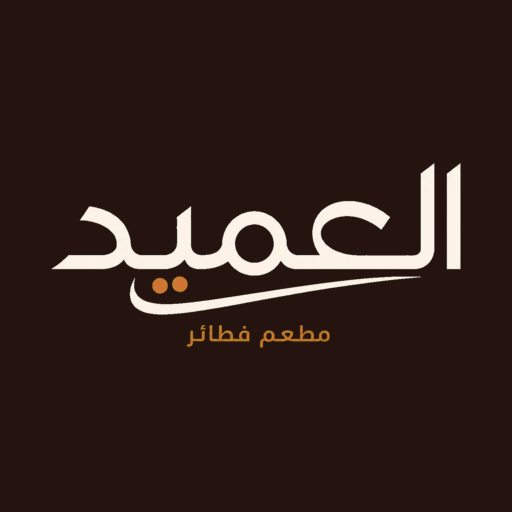
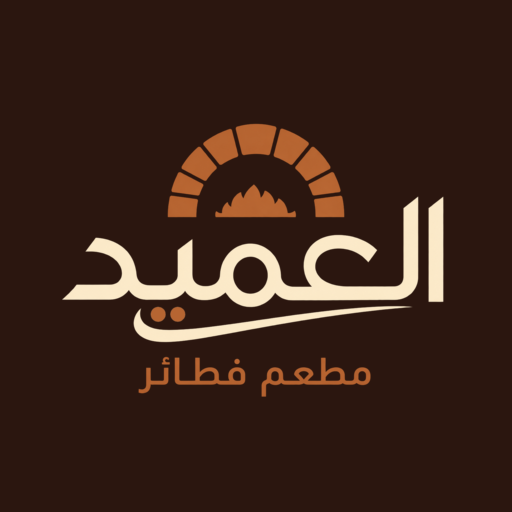
Add files via upload

Changed region(s): [[0.0938, 0.2188, 0.9062, 0.7812]]

diff --git a/index.html b/index.html
@@ -6,18 +6,18 @@
   <meta name="theme-color" content="#efe3d3">
   <meta name="description" content="منيو مطعم فطائر العميد والطلب عبر واتساب">
   <title>مطعم فطائر العميد</title>
-  <link rel="preload" as="image" href="brand-logo.png" fetchpriority="high">
+  <link rel="preload" as="image" href="brand-logo.png?v=20260819-final-logo" fetchpriority="high">
   <link rel="preload" as="image" href="hero-lamma.jpg" fetchpriority="high">
-  <link rel="stylesheet" href="style.css?v=20260816-horizontal-sizes-v1">
-  <link rel="apple-touch-icon" sizes="180x180" href="apple-touch-icon.png">
-  <link rel="icon" type="image/png" sizes="64x64" href="favicon.png">
+  <link rel="stylesheet" href="style.css?v=20260819-uniform-logo-v1">
+  <link rel="apple-touch-icon" sizes="180x180" href="apple-touch-icon.png?v=20260819-final-logo">
+  <link rel="icon" type="image/png" sizes="64x64" href="favicon.png?v=20260819-final-logo">
   <meta name="apple-mobile-web-app-capable" content="yes">
   <meta name="apple-mobile-web-app-status-bar-style" content="default">
   <meta name="apple-mobile-web-app-title" content="فطائر العميد">
 </head>
 <body>
   <div id="brandSplash" class="brand-splash" aria-label="مطعم فطائر العميد">
-    <img class="brand-splash-logo" src="brand-logo.png" alt="مطعم فطائر العميد" draggable="false">
+    <img class="brand-splash-logo" src="brand-logo.png?v=20260819-final-logo" alt="مطعم فطائر العميد" draggable="false">
   </div>
   <div class="sticky-stack">
     <div class="sticky-tools">

diff --git a/style.css b/style.css
@@ -1238,8 +1238,10 @@ body{padding-top:0!important;}
   position:relative;
   z-index:1;
   display:block;
-  width:min(92vw,820px);
+  width:min(82vw,560px);
   height:auto;
+  max-height:76vh;
+  object-fit:contain;
   user-select:none;
   -webkit-user-drag:none;
   filter:drop-shadow(0 18px 34px rgba(0,0,0,.28));
@@ -1422,7 +1424,7 @@ body.modal-open .offers-badge{
 }
 @media(max-width:520px){
   .brand-splash{padding:16px}
-  .brand-splash-logo{width:96vw}
+  .brand-splash-logo{width:min(88vw,420px);max-height:72vh}
   .offer-photo{border-radius:18px}
 }
 @media(prefers-reduced-motion:reduce){
